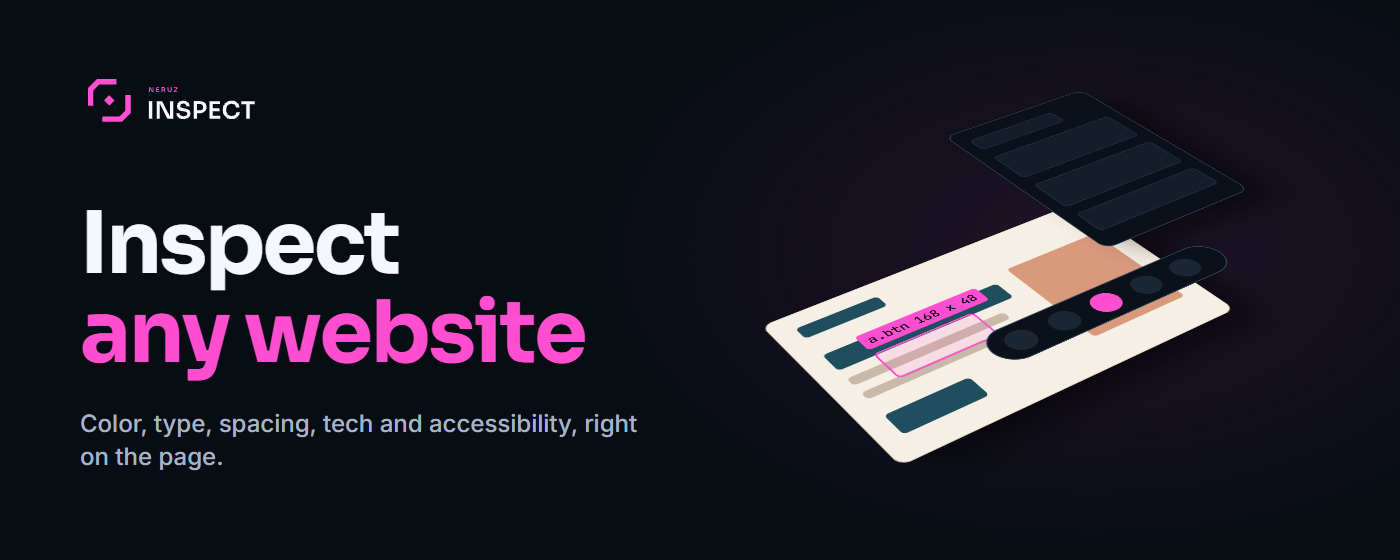
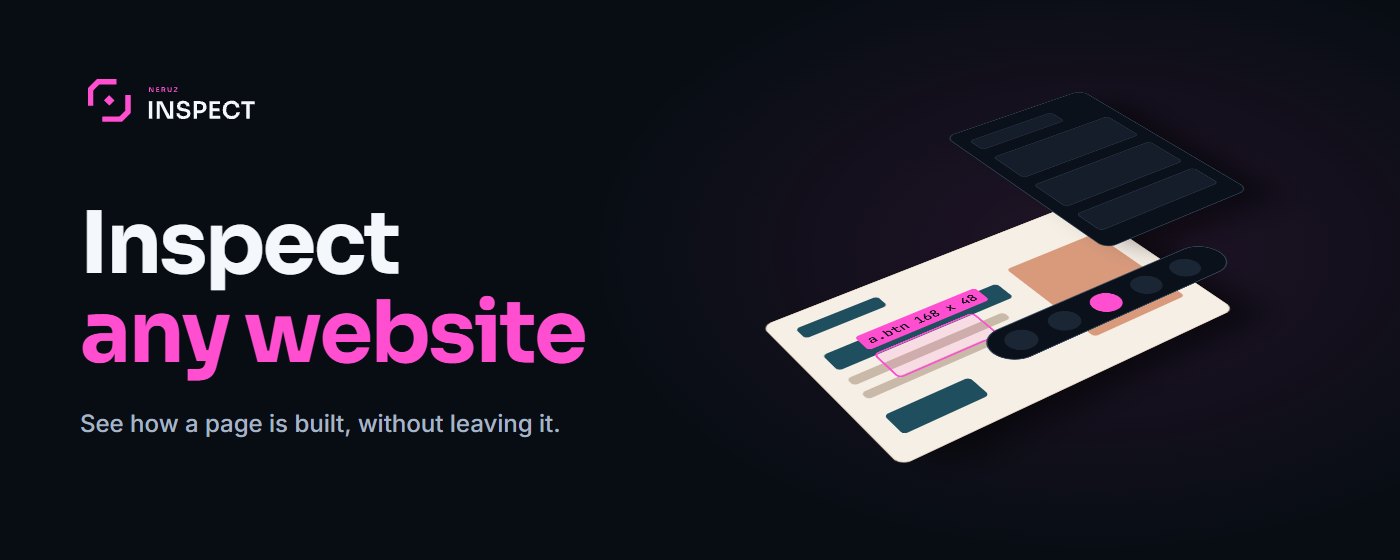
docs(store): rewrite listings as prose to avoid keyword-spam rejection; promo subline without lists

Changed region(s): [[0.0614, 0.7286, 0.4607, 0.85]]

diff --git a/docs/store/listing.es.md b/docs/store/listing.es.md
@@ -8,85 +8,44 @@ Español neutro (carpeta `_locales/es`, cubre todo el español).
 Neruz Inspect
 
 ## Resumen corto (Chrome: sale del manifest, `extDescription` en `_locales/es`)
-Propuesta (129/132 caracteres):
+Texto actual del paquete (95/132), se mantiene: "Toma colores, descubre fuentes, mide espacios y conoce la tecnología detrás de cualquier sitio." No tiene listas de formatos ni marcas, así que puede quedarse. Propuesta opcional más segura, sin lista (88/132), solo si se cambia `extDescription` en `_locales` antes del build:
 
 ```
-Mira cómo está hecho cualquier sitio: colores, fuentes, medidas, tecnologías y SEO. Gratis, código abierto y sin recopilar datos.
+Mira cómo está hecha cualquier página y copia lo que necesites, desde una barra encima.
 ```
 
-Texto actual del paquete (95/132): "Toma colores, descubre fuentes, mide espacios y conoce la tecnología detrás de cualquier sitio." También sirve. Para usar la propuesta hay que cambiar `extDescription` en `_locales` antes del build (la Chrome Web Store lee el resumen del manifest).
-
-## Resumen AMO (≤250, aprox. 215)
+## Resumen AMO (≤250, aprox. 165)
 ```
-Mira cómo está hecho cualquier sitio desde una barra sobre la página: cuentagotas, fuentes, regla, design system, animaciones en cámara lenta, tecnologías, píxeles, SEO e informe en PDF. Gratis, código abierto (MIT) y sin recopilar datos.
+Estudia cómo está hecha cualquier página desde una barra encima de ella y copia lo que necesites como código listo para pegar. Gratis, código abierto y sin recopilar datos.
 ```
 
-## Descripción larga (texto plano; Chrome ≤16000, aprox. 2.700)
+## Descripción larga (texto plano; Chrome ≤16000, aprox. 1.750)
 ```
-Mira cómo está hecho cualquier sitio y llévate lo que necesitas. Neruz Inspect abre una barra oscura sobre la página con herramientas de color, tipografía, layout, código, movimiento, tecnología y análisis de la página. Sin abrir DevTools y sin saltar entre varias extensiones.
+Mira cómo está hecha una página y llévate lo que necesitas. Neruz Inspect abre una barra encima de la página que estás visitando, para que la estudies sin herramientas de desarrollador.
 
-COLOR
-• Cuentagotas: toma el color de cualquier píxel y cópialo en HEX, RGB, HSL u OKLCH
-• Paleta de la página: todos los colores del sitio, agrupados y con cuántas veces aparecen
-• Revisar contraste: nota WCAG y APCA, y un color que sí pasa
-• Conversor de color, degradados y sombras, simulador de daltonismo
+Toma cualquier color con el cuentagotas y cópialo en el formato que usas. Luego revisa si el texto tiene contraste suficiente para leerse con comodidad.
 
-TIPOGRAFÍA
-• Qué fuente es: pasa el mouse y ve fuente, peso, tamaño, interlineado y color
-• Fuentes de la página: dónde aparece cada fuente y de dónde viene
-• Probar fuente: cambia la fuente del sitio y mira al instante cómo queda
-• Escala tipográfica: los tamaños de texto en orden, con la proporción entre ellos
+Pasa el mouse sobre un texto para descubrir su fuente y de dónde viene, y prueba otra en la misma página para comparar.
 
-LAYOUT
-• Regla: la distancia en píxeles entre dos elementos
-• Modelo de caja: contenido, padding y margin dibujados sobre la página
-• Grid y Flexbox, mapa de capas (z-index), breakpoints leídos del CSS y contornos
-• Scroll horizontal: encuentra el elemento que hace que la página se desplace de lado
+Mide el espacio entre dos elementos y encuentra lo que hace que la página se desplace de lado.
 
-CÓDIGO
-• Copiar estilos: el CSS de un elemento listo para pegar, también en Tailwind
-• Copiar componente: un bloque entero en HTML y CSS, Tailwind o JSX
-• Extraer design system: colores, fuentes, espacios y radios en CSS, Tailwind o JSON
-• Editar en vivo: cambia textos y estilos y exporta el CSS modificado
-La versión en Tailwind es aproximada; revísala antes de usarla en producción.
+Copia los estilos de un elemento, o de un bloque entero, como código listo para pegar. La versión en Tailwind es aproximada, así que revísala antes de publicar.
 
-MOVIMIENTO
-• Inspector de movimiento: animaciones en cámara lenta, con duración, easing y la librería usada, cuando aparece en la página
-• Interruptores: desactiva CSS, animaciones o imágenes para ver qué queda
-
-TECNOLOGÍA
-• Tecnologías del sitio: framework, CMS, constructor y librerías, con versión si se ve
-• Píxeles y etiquetas: Meta Pixel, GA4, Google Tag Manager y otras, con los eventos que envían
-• Cookies y storage, visor de JSON
-
-PÁGINA
-• SEO y meta tags, con la vista previa del enlace compartido
-• Datos estructurados, robots.txt y sitemap
-• Enlaces: internos, externos y cuáles están rotos
-• Imágenes y archivos, íconos y favicons para descargar
-• Rendimiento: LCP, INP y CLS medidos en esta pestaña, en tu computadora
-• Accesibilidad: imágenes sin alt, orden de encabezados, etiquetas y contraste bajo
-• Informe en PDF: SEO, tecnologías, rendimiento y accesibilidad en un archivo para enviar
-
-UTILIDADES
-• Conversor de px, rem, em y %, lorem ipsum, llenar formularios con datos ficticios, código QR de la página e historial de copias
-
-PARA QUIÉN ES
-Devs front-end, diseñadores, agencias, especialistas en tráfico pago y quien estudia sitios de referencia.
+Mira las animaciones en cámara lenta y descubre con qué tecnología está hecha la página. También puedes medir la velocidad de carga en tu pestaña y detectar problemas comunes de accesibilidad. Al final, genera un informe para enviar a tu equipo o a tu cliente.
 
 TUS DATOS SE QUEDAN EN TU NAVEGADOR
-• Sin servidor, sin cuenta y sin recopilar datos
+• Sin servidor, sin cuenta y sin recopilar nada
 • Solo funciona en la pestaña donde haces clic en el ícono
-• Los cambios en la página se ven solo en tu pantalla; al recargar se deshacen
-• El acceso a otros sitios es opcional, se pide solo al revisar enlaces o descargar archivos y puedes quitarlo cuando quieras
-• Código abierto (MIT): revisa cada línea en GitHub
+• Los cambios se ven solo en tu pantalla; al recargar se deshacen
+• El acceso a otros sitios es opcional y solo se pide para revisar enlaces o descargar archivos
+• Código abierto: cada línea es pública
 
 CÓMO SE USA
-1. Abre un sitio y haz clic en el ícono de Neruz Inspect (o Alt+Shift+I)
+1. Abre una página y haz clic en el ícono de Neruz Inspect (o Alt+Shift+I)
 2. Elige una herramienta en la barra o presiona / para buscar
 3. Esc sale de la herramienta; Esc otra vez cierra todo
 
-Bueno saber: el navegador no permite extensiones en páginas internas, en la tienda de extensiones ni en el visor de PDF. "Probar fuente" carga desde Google Fonts la fuente que elijas en la página abierta.
+Bueno saber: las extensiones no funcionan en las páginas internas del navegador. "Probar fuente" carga desde Google Fonts la fuente que elijas en la página abierta.
 
 Código: https://github.com/brunolucassf/neruz-inspect
 Privacidad: https://inspect.neruz.tech/es/privacy/
@@ -105,13 +64,13 @@ Chrome acepta como máximo 5 capturas: usar 1, 2, 3, 4 y 6. AMO acepta las 6. En
 
 | # | Escena | Título | Línea de apoyo |
 |---|---|---|---|
-| 1 | Barra + color/paleta | Toma cualquier color y mira la paleta del sitio | Cuentagotas en HEX, RGB, HSL u OKLCH, con contraste WCAG y APCA. |
-| 2 | Tipografía | Descubre la fuente pasando el mouse | Fuente, peso, tamaño, interlineado y de dónde viene. |
-| 3 | Medir/inspeccionar | Mide distancias y ve margin y padding | Regla y modelo de caja dibujados sobre la página. |
-| 4 | Tecnologías + SEO | Mira con qué está hecho el sitio | Framework, CMS, píxeles y etiquetas, más SEO y vista previa del enlace. |
-| 5 | Rendimiento/accesibilidad | Revisa rendimiento y accesibilidad | LCP, INP y CLS medidos en tu pestaña, y los errores de accesibilidad más comunes. |
-| 6 | Informe PDF | Genera un informe del sitio en PDF | SEO, tecnologías, rendimiento y accesibilidad en un archivo para enviar. |
+| 1 | Barra + color/paleta | Toma cualquier color de la página | Cópialo en el formato que usas y revisa el contraste. |
+| 2 | Tipografía | Descubre la fuente pasando el mouse | Mira sus detalles y de dónde viene. |
+| 3 | Medir/inspeccionar | Mide el espacio entre elementos | Guías dibujadas sobre la misma página. |
+| 4 | Tecnologías + SEO | Mira con qué está hecha la página | Y cómo se ve cuando alguien comparte el enlace. |
+| 5 | Rendimiento/accesibilidad | Revisa velocidad y accesibilidad | Medido en tu pestaña, con los problemas comunes señalados. |
+| 6 | Informe PDF | Genera un informe de la página | Todo lo que encontraste en un archivo para enviar. |
 
 ## Arte promocional (≤6 palabras)
-- Principal: Mira cómo está hecho cualquier sitio (6)
-- Alternativa: Color, fuente, medida y tecnología (5)
+- Principal: Mira cómo está hecha cualquier página (6)
+- Alternativa: Aprende de cada página que visitas (6)

diff --git a/docs/store/listing.pt-BR.md b/docs/store/listing.pt-BR.md
@@ -7,85 +7,44 @@ Regras: sem número de ferramentas, usuários, notas ou depoimentos; sem nome de
 Neruz Inspect
 
 ## Resumo curto (Chrome: vem do manifest, `extDescription` em `_locales/pt_BR`)
-Proposta (120/132 caracteres):
+Texto atual no pacote (94/132), mantido: "Pegue cores, descubra fontes, meça espaçamentos e veja a tecnologia por trás de qualquer site." Não tem lista de formatos nem marcas, então pode ficar. Proposta opcional mais segura, sem lista (91/132), só se o `extDescription` for trocado no `_locales` antes do build:
 
 ```
-Veja como qualquer site foi feito: cores, fontes, medidas, tecnologias e SEO. Grátis, código aberto e sem coletar dados.
+Veja como qualquer página foi feita e copie o que precisar, numa barra por cima dela.
 ```
 
-Texto atual no pacote (94/132): "Pegue cores, descubra fontes, meça espaçamentos e veja a tecnologia por trás de qualquer site." Também serve. Para usar a proposta, o `extDescription` precisa ser trocado no `_locales` antes do build (a Chrome Web Store lê o resumo do manifest).
-
-## Resumo AMO (≤250, aprox. 205)
+## Resumo AMO (≤250, aprox. 160)
 ```
-Veja como qualquer site foi feito numa barra por cima da página: conta-gotas, fontes, régua, design system, animações em câmera lenta, tecnologias, pixels, SEO e relatório em PDF. Grátis, código aberto (MIT) e sem coleta de dados.
+Estude como qualquer página foi feita numa barra por cima dela e copie o que precisar como código pronto para colar. Grátis, código aberto e sem coleta de dados.
 ```
 
-## Descrição longa (texto puro; Chrome ≤16000, aprox. 2.600)
+## Descrição longa (texto puro; Chrome ≤16000, aprox. 1.750)
 ```
-Veja como qualquer site foi feito e leve o que precisa. O Neruz Inspect abre uma barra escura por cima da página com ferramentas de cor, tipografia, layout, código, movimento, tecnologia e análise da página. Sem abrir o DevTools e sem alternar entre várias extensões.
+Veja como uma página foi feita e leve o que precisa. O Neruz Inspect abre uma barra por cima da página que você está visitando, para estudá-la sem ferramentas de desenvolvedor.
 
-COR
-• Conta-gotas: pegue a cor de qualquer pixel e copie em HEX, RGB, HSL ou OKLCH
-• Paleta da página: todas as cores do site, agrupadas e com quantas vezes aparecem
-• Checar contraste: nota WCAG e APCA e uma cor que passa
-• Conversor de cor, gradientes e sombras, simulador de daltonismo
+Pegue qualquer cor com o conta-gotas e copie no formato que você usa. Depois, confira se o texto tem contraste suficiente para ler com conforto.
 
-TIPOGRAFIA
-• Qual é a fonte: passe o mouse e veja fonte, peso, tamanho, entrelinha e cor
-• Fontes da página: onde cada fonte aparece e de onde vem
-• Testar fonte: troque a fonte do site e veja na hora como fica
-• Escala tipográfica: os tamanhos de texto em ordem, com a proporção entre eles
+Passe o mouse sobre um texto para descobrir a fonte e de onde ela vem, e teste outra na própria página para comparar.
 
-LAYOUT
-• Régua: a distância em pixels entre dois elementos
-• Caixa do elemento: conteúdo, padding e margin desenhados sobre a página
-• Grid e Flexbox, mapa de camadas (z-index), breakpoints lidos do CSS e contornos
-• Rolagem lateral: ache o elemento que faz a página rolar para o lado
+Meça o espaço entre dois elementos e encontre o que faz a página rolar para o lado.
 
-CÓDIGO
-• Copiar estilos: o CSS de um elemento pronto para colar, também em Tailwind
-• Copiar componente: um bloco inteiro em HTML e CSS, Tailwind ou JSX
-• Extrair design system: cores, fontes, espaços e raios em CSS, Tailwind ou JSON
-• Editar ao vivo: mude textos e estilos e exporte o CSS alterado
-A versão em Tailwind é aproximada; revise antes de usar em produção.
+Copie os estilos de um elemento, ou de um bloco inteiro, como código pronto para colar. A versão em Tailwind é aproximada, então revise antes de publicar.
 
-MOVIMENTO
-• Inspetor de movimento: animações em câmera lenta, com duração, easing e a biblioteca usada, quando ela aparece na página
-• Liga e desliga: desative CSS, animações ou imagens para ver o que sobra
-
-TECNOLOGIA
-• Tecnologias do site: framework, CMS, construtor e bibliotecas, com versão quando aparece
-• Pixels e tags: Meta Pixel, GA4, Google Tag Manager e outras, com os eventos disparados
-• Cookies e storage, visualizador de JSON
-
-PÁGINA
-• SEO e meta tags, com a prévia do link compartilhado
-• Dados estruturados, robots.txt e sitemap
-• Links da página: internos, externos e quais estão quebrados
-• Imagens e arquivos, ícones e favicons para baixar
-• Desempenho: LCP, INP e CLS medidos nesta aba, no seu computador
-• Acessibilidade: imagens sem alt, ordem dos títulos, rótulos e contraste baixo
-• Relatório em PDF: SEO, tecnologias, desempenho e acessibilidade num arquivo para enviar
-
-UTILITÁRIOS
-• Conversor de px, rem, em e %, lorem ipsum, preencher formulário com dados fictícios, QR code da página e histórico de cópias
-
-PARA QUEM É
-Devs front-end, designers, agências, gestores de tráfego e quem estuda sites de referência.
+Veja animações em câmera lenta e descubra com que tecnologia a página foi feita. Também dá para medir a velocidade de carregamento na sua aba e achar problemas comuns de acessibilidade. No fim, gere um relatório para enviar à equipe ou ao cliente.
 
 SEUS DADOS FICAM NO SEU NAVEGADOR
-• Sem servidor, sem conta e sem coleta de dados
+• Sem servidor, sem conta e nada coletado
 • Só roda na aba em que você clica no ícone
-• Mudanças na página aparecem só na sua tela; recarregar a página desfaz tudo
-• Acesso a outros sites é opcional, pedido só quando você checa links ou baixa arquivos, e pode ser removido quando quiser
-• Código aberto (MIT): confira cada linha no GitHub
+• As mudanças aparecem só na sua tela; recarregar desfaz tudo
+• Acesso a outros sites é opcional e só é pedido para checar links ou baixar arquivos
+• Código aberto: cada linha é pública
 
 COMO USAR
-1. Abra um site e clique no ícone do Neruz Inspect (ou Alt+Shift+I)
+1. Abra uma página e clique no ícone do Neruz Inspect (ou Alt+Shift+I)
 2. Escolha uma ferramenta na barra ou aperte / para buscar
 3. Esc sai da ferramenta; Esc de novo fecha tudo
 
-Bom saber: o navegador não deixa extensões rodarem em páginas internas, na loja de extensões e no visualizador de PDF. "Testar fonte" carrega a fonte escolhida do Google Fonts na página aberta.
+Bom saber: extensões não rodam nas páginas internas do navegador. O "Testar fonte" carrega do Google Fonts a fonte escolhida na página aberta.
 
 Código: https://github.com/brunolucassf/neruz-inspect
 Privacidade: https://inspect.neruz.tech/privacy/
@@ -104,13 +63,13 @@ A Chrome aceita no máximo 5 capturas: use 1, 2, 3, 4 e 6. O AMO aceita todas as
 
 | # | Cena | Título | Linha de apoio |
 |---|---|---|---|
-| 1 | Barra + cor/paleta | Pegue qualquer cor e veja a paleta do site | Conta-gotas em HEX, RGB, HSL ou OKLCH, com contraste WCAG e APCA. |
-| 2 | Tipografia | Descubra a fonte passando o mouse | Fonte, peso, tamanho, entrelinha e de onde ela vem. |
-| 3 | Medir/inspecionar | Meça distâncias e veja margin e padding | Régua e caixa do elemento desenhadas sobre a página. |
-| 4 | Tecnologias + SEO | Veja com o que o site foi feito | Framework, CMS, pixels e tags, mais SEO e prévia do link. |
-| 5 | Desempenho/acessibilidade | Confira desempenho e acessibilidade | LCP, INP e CLS medidos na sua aba, e os erros de acessibilidade mais comuns. |
-| 6 | Relatório PDF | Gere um relatório do site em PDF | SEO, tecnologias, desempenho e acessibilidade num arquivo para enviar. |
+| 1 | Barra + cor/paleta | Pegue qualquer cor da página | Copie no formato que você usa e confira o contraste. |
+| 2 | Tipografia | Descubra a fonte passando o mouse | Veja os detalhes dela e de onde ela vem. |
+| 3 | Medir/inspecionar | Meça o espaço entre os elementos | Guias desenhadas sobre a própria página. |
+| 4 | Tecnologias + SEO | Veja com o que a página foi feita | E como ela aparece quando alguém compartilha o link. |
+| 5 | Desempenho/acessibilidade | Confira velocidade e acessibilidade | Medido na sua aba, com os problemas comuns apontados. |
+| 6 | Relatório PDF | Gere um relatório da página | Tudo o que você encontrou num arquivo para enviar. |
 
 ## Arte promocional (≤6 palavras)
-- Principal: Veja como qualquer site foi feito (6)
-- Alternativa: Cor, fonte, medida e tecnologia (5)
+- Principal: Veja como qualquer página foi feita (6)
+- Alternativa: Aprenda com cada página que visita (6)

diff --git a/docs/store/listing.en.md b/docs/store/listing.en.md
@@ -7,85 +7,44 @@ Rules: no tool count, user count, ratings or testimonials; no competitor names.
 Neruz Inspect
 
 ## Short summary (Chrome: read from the manifest, `extDescription` in `_locales/en`)
-Proposal (111/132 characters):
+Current text in the package (84/132), kept: "Pick colors, identify fonts, measure spacing and detect the tech behind any website." It has no format or brand lists, so it can stay. Optional safer proposal without any list (80/132), only if `extDescription` changes in `_locales` before the build:
 
 ```
-See how any website is built: colors, fonts, spacing, tech stack and SEO. Free, open source, no data collected.
+See how any page is built and copy what you need, from a toolbar right on top of it.
 ```
 
-Current text in the package (84/132): "Pick colors, identify fonts, measure spacing and detect the tech behind any website." Also works. To use the proposal, `extDescription` must change in `_locales` before the build (the Chrome Web Store reads the summary from the manifest).
-
-## AMO summary (≤250, approx. 200)
+## AMO summary (≤250, approx. 150)
 ```
-See how any website is built from a toolbar on top of the page: eyedropper, fonts, ruler, design tokens, slow-motion animations, tech stack, pixels, SEO and a PDF report. Free, open source (MIT), no data collected.
+Study how any page is built from a toolbar on top of it, and copy what you need as code ready to paste. Free, open source, with no data collected.
 ```
 
-## Long description (plain text; Chrome ≤16000, approx. 2,400)
+## Long description (plain text; Chrome ≤16000, approx. 1,650)
 ```
-See how any website is built and take what you need. Neruz Inspect opens a dark toolbar on top of the page with tools for color, typography, layout, code, motion, tech and page analysis. No DevTools, no juggling extensions.
+See how a page is built and take what you need. Neruz Inspect opens a toolbar over the page you're visiting, so you can study it without developer tools.
 
-COLOR
-• Eyedropper: grab any pixel's color and copy it as HEX, RGB, HSL or OKLCH
-• Page palette: every color on the site, grouped and counted
-• Contrast checker: WCAG and APCA scores, plus a color that passes
-• Color converter, gradients and shadows, color blindness simulator
+Grab any color with the eyedropper and copy it in the format you use, then check whether the text has enough contrast to read comfortably.
 
-TYPOGRAPHY
-• Font finder: hover any text to see its font, weight, size, line height and color
-• Page fonts: where each font appears and where it loads from
-• Font tester: swap the site's font for another and see the result right away
-• Type scale: the site's text sizes in order, with the ratio between them
+Hover over text to see its typeface and where it loads from, and try a different one on the live page to compare.
 
-LAYOUT
-• Ruler: the distance in pixels between any two elements
-• Box model: content, padding and margin drawn on the page
-• Grid and Flexbox, z-index map, breakpoints read from the CSS, and outlines
-• Overflow finder: find the element that makes the page scroll sideways
+Measure the gap between two elements and find what pushes the page sideways.
 
-CODE
-• Copy styles: an element's CSS ready to paste, with a Tailwind version too
-• Copy component: a whole block as HTML and CSS, Tailwind or JSX
-• Extract design system: colors, fonts, spacing and radii as CSS, Tailwind or JSON
-• Live edit: change text and styles, then export the edited CSS
-The Tailwind output is an approximation; review it before shipping.
+Copy the styles of an element, or a whole block, as code ready to paste. The Tailwind version is an approximation, so review it before shipping.
 
-MOTION
-• Motion inspector: animations in slow motion, with duration, easing and the library used, when it shows up on the page
-• Page toggles: turn off CSS, animations or images to see what's left
-
-TECH
-• Tech stack: framework, CMS, site builder and libraries, with the version when it's exposed
-• Pixels and tags: Meta Pixel, GA4, Google Tag Manager and others, with the events they fire
-• Cookies and storage, JSON viewer
-
-PAGE
-• SEO and meta tags, with a preview of the shared link
-• Structured data, robots.txt and sitemap
-• Link checker: internal and external links, and which ones are broken
-• Assets, icons and favicons to download
-• Core Web Vitals: LCP, INP and CLS measured in this tab, on your machine
-• Accessibility: missing alt text, heading order, labels and low contrast
-• PDF report: SEO, tech, performance and accessibility in one file to share
-
-UTILITIES
-• px, rem, em and % converter, lorem ipsum, form filler with fake data, a QR code for the page and your copy history
-
-WHO IT'S FOR
-Front-end developers, designers, agencies, paid traffic managers and anyone who studies reference sites.
+Slow down animations to study their timing and find out what the page is built with. You can also check how fast it loads in your tab and spot common accessibility issues. When you're done, export a report to share with your team or client.
 
 YOUR DATA STAYS IN YOUR BROWSER
-• No server, no account, no data collection
+• No server, no account and nothing collected
 • Runs only on the tab where you click the icon
-• Changes to the page show only on your screen; reloading undoes them
-• Access to other sites is optional, requested only when you check links or download files, and can be removed anytime
-• Open source (MIT): read every line on GitHub
+• Edits show only on your screen; reloading undoes them
+• Access to other sites is optional and only requested to check links or download files
+• Open source: every line of code is public
 
 HOW TO USE
-1. Open a site and click the Neruz Inspect icon (or press Alt+Shift+I)
+1. Open a page and click the Neruz Inspect icon (or press Alt+Shift+I)
 2. Pick a tool from the toolbar or press / to search
 3. Esc exits the tool; Esc again closes everything
 
-Good to know: browsers don't let extensions run on internal pages, the extension store or the PDF viewer. The Font tester loads the font you choose from Google Fonts into the open page.
+Good to know: extensions can't run on the browser's internal pages. The font tester loads the typeface you pick from Google Fonts into the open page.
 
 Code: https://github.com/brunolucassf/neruz-inspect
 Privacy: https://inspect.neruz.tech/en/privacy/
@@ -104,13 +63,13 @@ Chrome accepts at most 5 screenshots: use 1, 2, 3, 4 and 6. AMO takes all 6. On 
 
 | # | Scene | Title | Support line |
 |---|---|---|---|
-| 1 | Toolbar + color/palette | Grab any color and see the site's palette | Eyedropper in HEX, RGB, HSL or OKLCH, with WCAG and APCA contrast. |
-| 2 | Typography | Hover to find the font | Font, weight, size, line height and where it loads from. |
-| 3 | Measure/inspect | Measure distances, see margin and padding | Ruler and box model drawn right on the page. |
-| 4 | Tech + SEO | See what the site is built with | Framework, CMS, pixels and tags, plus SEO and link preview. |
-| 5 | Performance/accessibility | Check performance and accessibility | LCP, INP and CLS measured in your tab, plus common accessibility issues. |
-| 6 | PDF report | Export a PDF report of the site | SEO, tech, performance and accessibility in one file to share. |
+| 1 | Toolbar + color/palette | Grab any color on the page | Copy it in the format you use and check the contrast. |
+| 2 | Typography | Hover to find the typeface | See its details and where it loads from. |
+| 3 | Measure/inspect | Measure the space between elements | Guides drawn right on the page you're viewing. |
+| 4 | Tech + SEO | See what the page is built with | And how it shows up when someone shares the link. |
+| 5 | Performance/accessibility | Check speed and accessibility | Measured in your own tab, with common issues pointed out. |
+| 6 | PDF report | Export a report of the page | Everything you found in one file to share. |
 
 ## Promo art (≤6 words)
-- Main: See how any website is built (6)
-- Alternative: Colors, fonts, spacing and tech (5)
+- Main: See how any page is built (6)
+- Alternative: Learn from any page you visit (6)
